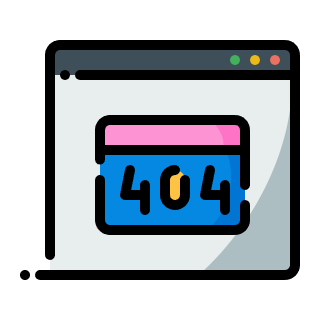
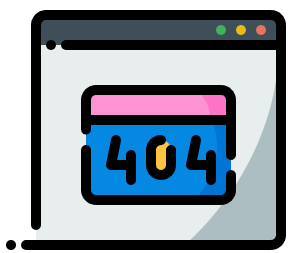
Updated not found image and styles

diff --git a/pubmed-ai/src/components/Verify/Verify.tsx b/pubmed-ai/src/components/Verify/Verify.tsx
@@ -25,7 +25,7 @@ const Verify = () => {
     if (!token || isError) {
         return (
             <StyledRootContainer>
-                <img src={NotFound} alt="notfound" />
+                <img src={NotFound} alt="notfound" width="260px" />
                 <StyledPageNotFoundTitle variant="h4">
                     Page not found
                 </StyledPageNotFoundTitle>
@@ -51,7 +51,7 @@ const Verify = () => {
 
     return (
         <StyledRootContainer>
-            <img src={VerificationSuccess} alt="notfound" width="200px" />
+            <img src={VerificationSuccess} alt="success" width="200px" />
             <StyledTitle variant="h4">Thank you</StyledTitle>
             <StyledDescription variant="subtitle1" align="center">
                 Your email address has been successfully verified and you can
